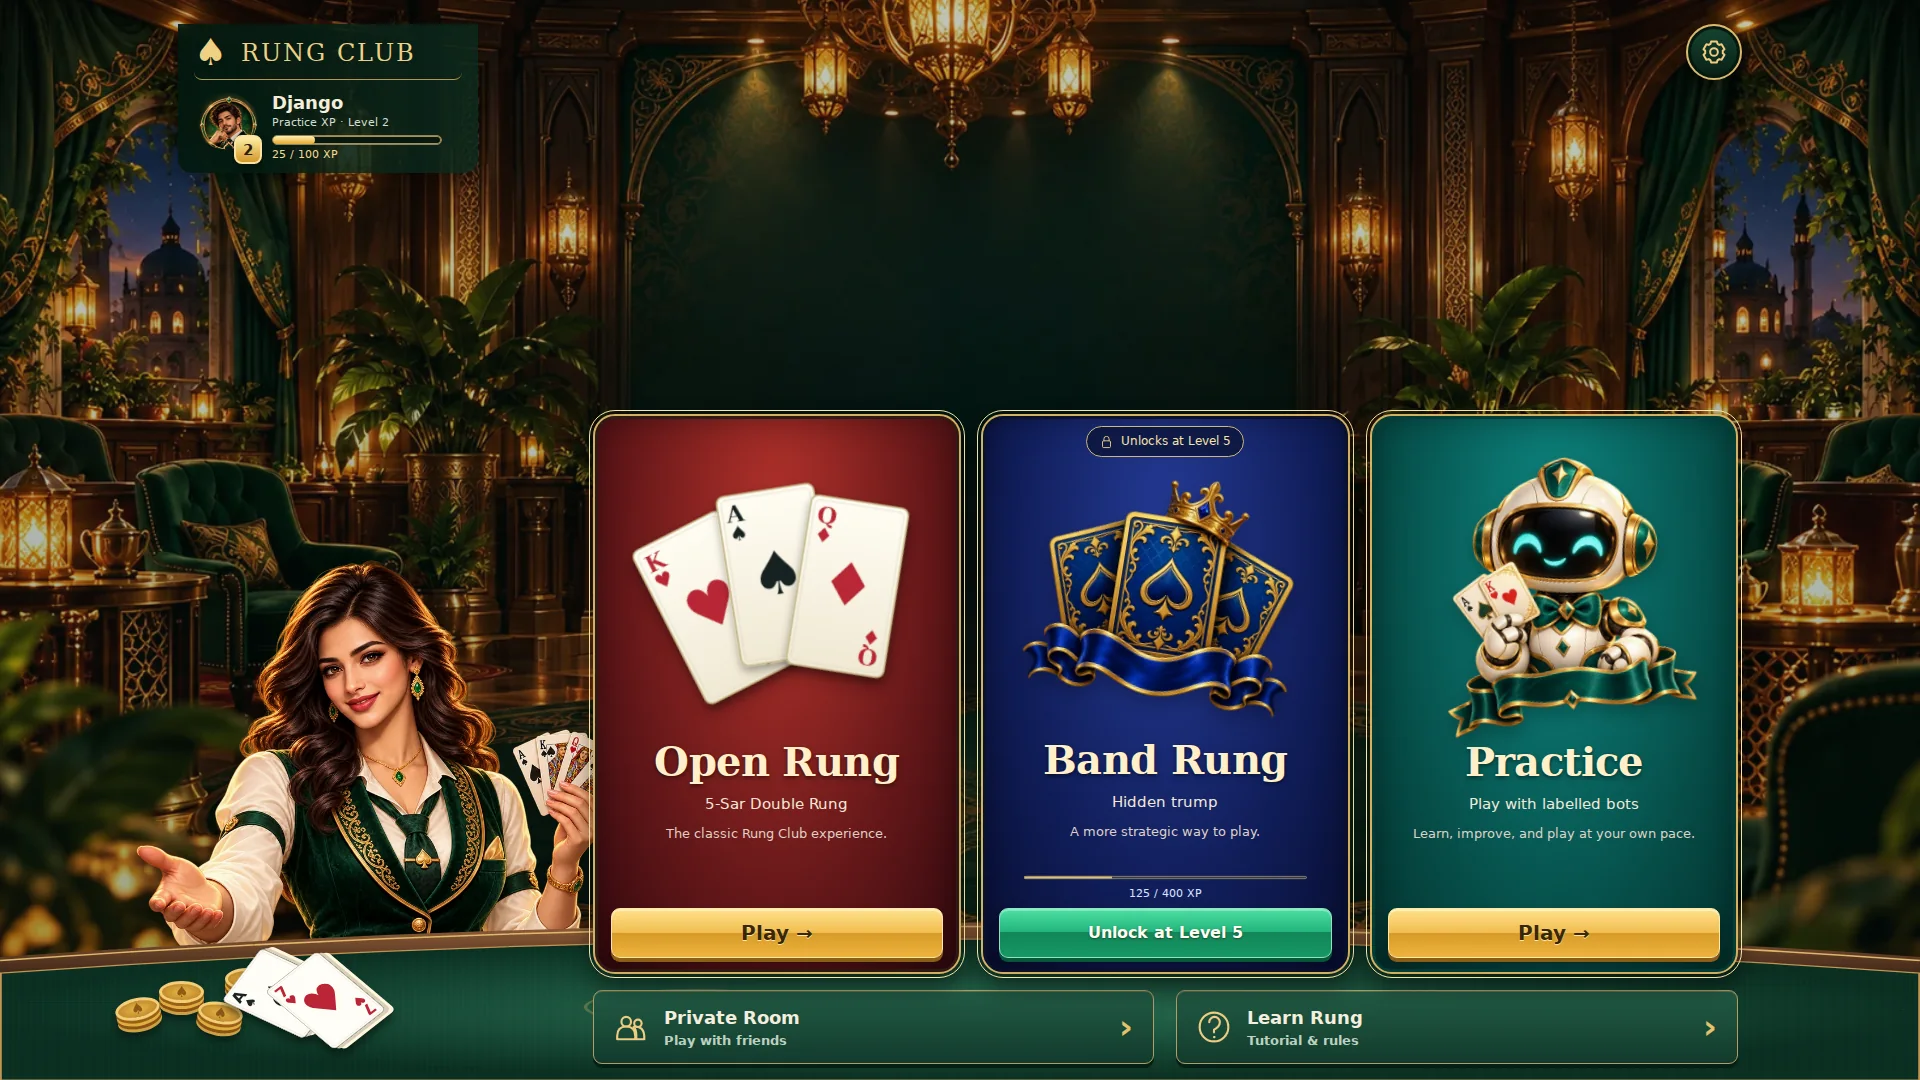
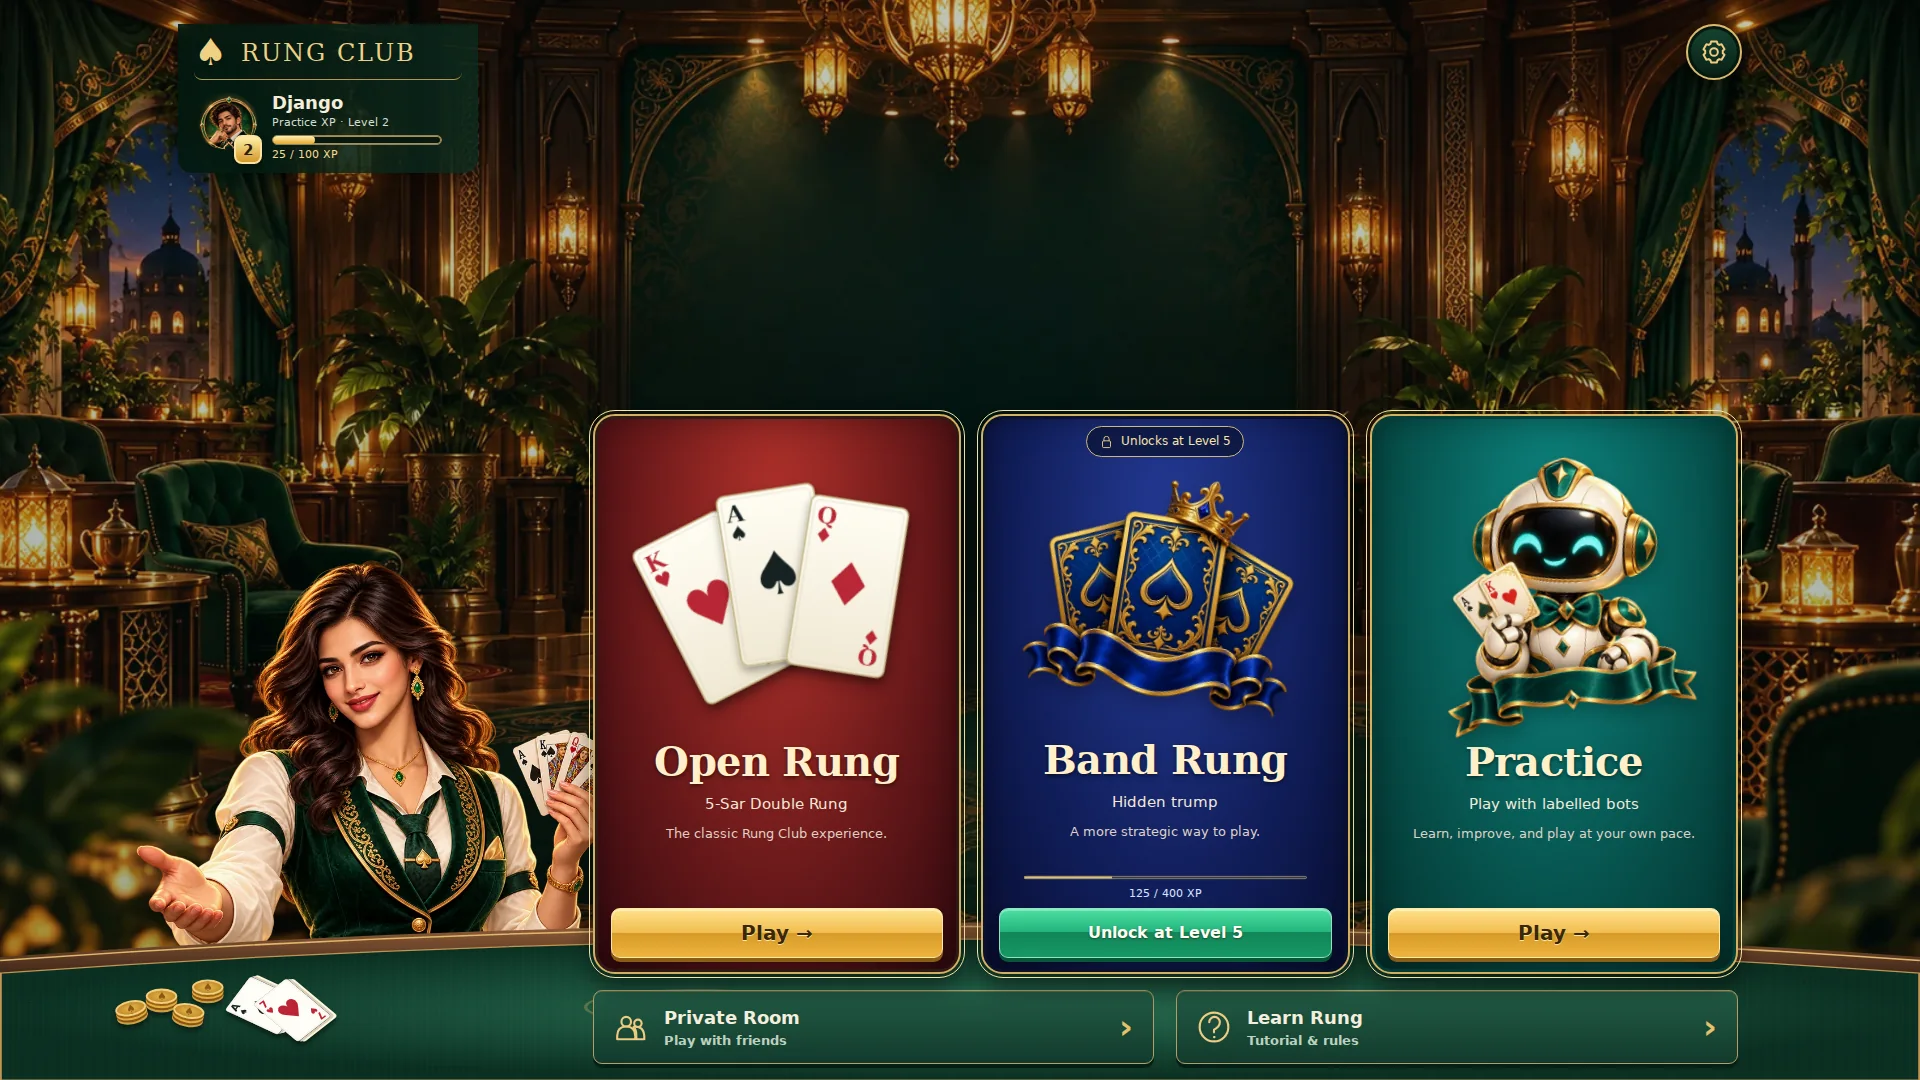
Anchor lobby cards and chips inside the felt across screen sizes

Changed region(s): [[0.0625, 0.8556, 0.2188, 0.9778]]

diff --git a/tests/visual/lobby-redesign.spec.ts b/tests/visual/lobby-redesign.spec.ts
@@ -2,4 +2,4 @@ import {test as base,expect} from '@playwright/test';
 import fs from 'node:fs';
 const test=process.env.BROWSER_EXECUTABLE_PATH?base.extend({context:async({playwright},use)=>{const browser=await playwright.chromium.launch({executablePath:process.env.BROWSER_EXECUTABLE_PATH,args:['--no-sandbox','--disable-dev-shm-usage','--disable-gpu','--single-process','--no-zygote','--disable-software-rasterizer']});const context=await browser.newContext({baseURL:'http://127.0.0.1:5173'});await use(context);await browser.close();}}):base;
 const out='docs/art/qa-lobby-redesign';fs.mkdirSync(out,{recursive:true});
-for(const [width,height] of [[1920,1080],[1366,768],[412,924],[390,844],[360,800],[320,640],[844,390],[932,430]])test(`lobby redesigned ${width}x${height}`,async({page})=>{await page.addInitScript(()=>{localStorage.setItem('welcome','1');localStorage.setItem('profile',JSON.stringify({name:'Django',xp:125,matches:4,wins:2}));});await page.setViewportSize({width,height});await page.goto('/');await page.getByRole('button',{name:'Play as a Guest'}).click();await expect(page.locator('.game-tile')).toHaveCount(3);await expect(page.locator('.club-banner')).toHaveCount(0);await expect(page.getByRole('progressbar',{name:'Level progress'})).toHaveAttribute('aria-valuenow','25');await expect(page.getByRole('progressbar',{name:'Band Rung unlock progress'})).toHaveAttribute('value','125');await expect.poll(()=>page.locator('.lobby-mode-art').evaluateAll((els:HTMLImageElement[])=>els.every(img=>img.complete&&img.naturalWidth>0))).toBe(true);await page.mouse.move(0,0);await page.waitForTimeout(350);await page.screenshot({path:`${out}/${width}x${height}.png`,fullPage:true});expect(await page.evaluate(()=>document.documentElement.scrollWidth<=innerWidth&&document.documentElement.scrollHeight<=innerHeight+1)).toBe(true);await expect(page.locator('.lobby-arrangement')).toHaveCSS('overflow-x','visible');const surface=await page.locator('.lobby-table-front').boundingBox();expect(surface!.x).toBeLessThanOrEqual(1);expect(surface!.x+surface!.width).toBeGreaterThanOrEqual(width-1);for(const card of await page.locator('.table-deck img').all()){const box=await card.boundingBox();expect(box!.x).toBeGreaterThanOrEqual(0);expect(box!.y+box!.height).toBeLessThanOrEqual(height-4);}if(width<=600){for(const tile of await page.locator('.game-tile').all()){const box=await tile.boundingBox();expect(box!.height/box!.width).toBeLessThan(2.65);expect(box!.height).toBeLessThan(height*.37);}}for(const art of await page.locator('.lobby-mode-art').all())expect((await art.boundingBox())!.height).toBeGreaterThan(45);for(const title of await page.locator('.mode-tile h2').all()){const b=await title.boundingBox(),panel=await title.locator('..').locator('..').boundingBox();expect(b!.x).toBeGreaterThanOrEqual(panel!.x-1);expect(b!.x+b!.width).toBeLessThanOrEqual(panel!.x+panel!.width+1);}for(const description of await page.locator('.mode-description').all())await expect(description).toBeVisible();for(const name of ['Play Open Rung','Unlock Level 5','Practice table']){const button=page.getByRole('button',{name,exact:true});await expect(button).toBeInViewport();expect((await button.boundingBox())!.height).toBeGreaterThanOrEqual(44);}for(const name of ['Your profile','Settings','Learn the art of Rung'])await expect(page.getByRole('button',{name,exact:true})).toBeInViewport();await expect(page.getByRole('button',{name:'Private Room',exact:false})).toBeInViewport();const host=await page.locator('.lobby-host .dealer').boundingBox();expect(host!.width).toBeGreaterThan(100);await page.getByRole('button',{name:'Unlock Level 5',exact:true}).click();await expect(page.getByRole('dialog',{name:'Band Rung locked'})).toBeVisible();await page.getByRole('button',{name:'Back to the lobby',exact:true}).click();await page.getByRole('button',{name:'Private Room',exact:false}).click();await expect(page.getByLabel('Room code')).toBeVisible();});
+for(const [width,height] of [[1920,1080],[1366,768],[412,924],[390,844],[360,800],[320,640],[844,390],[932,430]])test(`lobby redesigned ${width}x${height}`,async({page})=>{await page.addInitScript(()=>{localStorage.setItem('welcome','1');localStorage.setItem('profile',JSON.stringify({name:'Django',xp:125,matches:4,wins:2}));});await page.setViewportSize({width,height});await page.goto('/');await page.getByRole('button',{name:'Play as a Guest'}).click();await expect(page.locator('.game-tile')).toHaveCount(3);await expect(page.locator('.club-banner')).toHaveCount(0);await expect(page.getByRole('progressbar',{name:'Level progress'})).toHaveAttribute('aria-valuenow','25');await expect(page.getByRole('progressbar',{name:'Band Rung unlock progress'})).toHaveAttribute('value','125');await expect.poll(()=>page.locator('.lobby-mode-art').evaluateAll((els:HTMLImageElement[])=>els.every(img=>img.complete&&img.naturalWidth>0))).toBe(true);await page.mouse.move(0,0);await page.waitForTimeout(350);await page.screenshot({path:`${out}/${width}x${height}.png`,fullPage:true});expect(await page.evaluate(()=>document.documentElement.scrollWidth<=innerWidth&&document.documentElement.scrollHeight<=innerHeight+1)).toBe(true);await expect(page.locator('.lobby-arrangement')).toHaveCSS('overflow-x','visible');const surface=await page.locator('.lobby-table-front').boundingBox();expect(surface!.x).toBeLessThanOrEqual(1);expect(surface!.x+surface!.width).toBeGreaterThanOrEqual(width-1);for(const card of await page.locator('.table-deck img').all()){const box=await card.boundingBox();expect(box!.x).toBeGreaterThanOrEqual(0);expect(box!.y+box!.height).toBeLessThanOrEqual(height-4);}for(const prop of await page.locator('.table-deck img,.table-coins i').all()){const b=(await prop.boundingBox())!;const t=(b.x+b.width/2-surface!.x)/surface!.width;const artHeight=width<=600?140:surface!.height;const feltEdge=surface!.y+(136-336*t*(1-t))*artHeight/400;expect(b.y).toBeGreaterThanOrEqual(feltEdge);}if(width<=600){for(const tile of await page.locator('.game-tile').all()){const box=await tile.boundingBox();expect(box!.height/box!.width).toBeLessThan(2.65);expect(box!.height).toBeLessThan(height*.37);}}for(const art of await page.locator('.lobby-mode-art').all())expect((await art.boundingBox())!.height).toBeGreaterThan(45);for(const title of await page.locator('.mode-tile h2').all()){const b=await title.boundingBox(),panel=await title.locator('..').locator('..').boundingBox();expect(b!.x).toBeGreaterThanOrEqual(panel!.x-1);expect(b!.x+b!.width).toBeLessThanOrEqual(panel!.x+panel!.width+1);}for(const description of await page.locator('.mode-description').all())await expect(description).toBeVisible();for(const name of ['Play Open Rung','Unlock Level 5','Practice table']){const button=page.getByRole('button',{name,exact:true});await expect(button).toBeInViewport();expect((await button.boundingBox())!.height).toBeGreaterThanOrEqual(44);}for(const name of ['Your profile','Settings','Learn the art of Rung'])await expect(page.getByRole('button',{name,exact:true})).toBeInViewport();await expect(page.getByRole('button',{name:'Private Room',exact:false})).toBeInViewport();const host=await page.locator('.lobby-host .dealer').boundingBox();expect(host!.width).toBeGreaterThan(100);await page.getByRole('button',{name:'Unlock Level 5',exact:true}).click();await expect(page.getByRole('dialog',{name:'Band Rung locked'})).toBeVisible();await page.getByRole('button',{name:'Back to the lobby',exact:true}).click();await page.getByRole('button',{name:'Private Room',exact:false}).click();await expect(page.getByLabel('Room code')).toBeVisible();});

diff --git a/apps/web/lobby.css b/apps/web/lobby.css
@@ -146,3 +146,15 @@
  .screen-lobby .lobby-play-area{justify-content:flex-end}
  .screen-lobby .lobby-host>.dealer{height:min(620px,90%);width:135%;max-width:510px;bottom:45px}
 }
+/* Decorations sit inside the felt, below the curved wooden rail. */
+.table-coins{top:58px;transform:scale(.7);transform-origin:left top}
+.table-deck{top:58px;transform:scale(.65);transform-origin:left top}
+@media(max-width:600px){
+ .lobby-table-front{top:calc(var(--host-height) - 95px)!important;background-image:url('/art/lobby/table-front.svg'),linear-gradient(transparent 139px,#0b3426 139px);background-size:100% 140px,100% 100%;background-repeat:no-repeat}
+ .table-coins{top:57px;left:4%;transform:scale(.32)}
+ .table-deck{top:58px;left:23%;transform:scale(.32)}
+}
+@media(max-height:550px) and (min-width:601px){
+ .table-coins{top:38px;transform:scale(.4)}
+ .table-deck{top:42px;transform:scale(.4)}
+}
